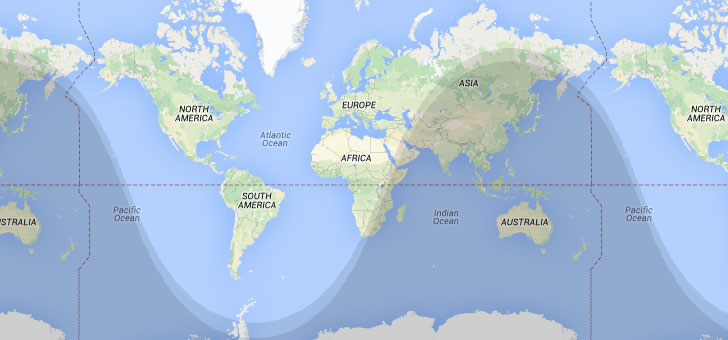
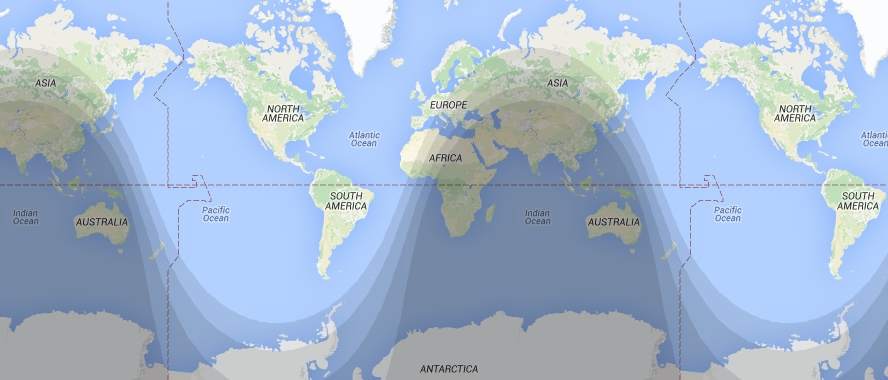
v1.5; now draws all twilight zones #4

diff --git a/nite-overlay.js b/nite-overlay.js
@@ -1,4 +1,4 @@
-/* Nite v1.4
+/* Nite v1.5
  * A tiny library to create a night overlay over the map
  * Author: Rossen Georgiev @ https://github.com/rossengeorgiev
  * Requires: GMaps API 3
@@ -8,11 +8,12 @@
 var nite = {
     map: null,
     date: null,
-    marker_sun: null,
-    marker_shadow: null,
-    marker_shadow_lite: null,
-    shadow_radius: parseInt(6371 * Math.PI * 500),
     sun_position: null,
+    earth_radius_meters: 6371008,
+    marker_twilight_civil: null,
+    marker_twilight_nautical: null,
+    marker_twilight_astronomical: null,
+    marker_night: null,
 
     init: function(map) {
         if(typeof google === 'undefined'
@@ -21,27 +22,51 @@ var nite = {
         this.map = map;
         this.sun_position = this.calculatePositionOfSun();
 
-        this.marker_shadow = new google.maps.Circle({
+        this.marker_twilight_civil = new google.maps.Circle({
             map: this.map,
             center: this.getShadowPosition(),
-            radius: this.shadow_radius,
+            radius: this.getShadowRadiusFromAngle(0),
             fillColor: "#000",
             fillOpacity: 0.1,
             strokeOpacity: 0,
             clickable: false,
             editable: false
         });
-
-        this.marker_shadow_lite = new google.maps.Circle({
+        this.marker_twilight_nautical = new google.maps.Circle({
             map: this.map,
             center: this.getShadowPosition(),
-            radius: this.shadow_radius * 0.96,
+            radius: this.getShadowRadiusFromAngle(6),
             fillColor: "#000",
             fillOpacity: 0.1,
             strokeOpacity: 0,
             clickable: false,
             editable: false
         });
+        this.marker_twilight_astronomical = new google.maps.Circle({
+            map: this.map,
+            center: this.getShadowPosition(),
+            radius: this.getShadowRadiusFromAngle(12),
+            fillColor: "#000",
+            fillOpacity: 0.1,
+            strokeOpacity: 0,
+            clickable: false,
+            editable: false
+        });
+        this.marker_night = new google.maps.Circle({
+            map: this.map,
+            center: this.getShadowPosition(),
+            radius: this.getShadowRadiusFromAngle(18),
+            fillColor: "#000",
+            fillOpacity: 0.1,
+            strokeOpacity: 0,
+            clickable: false,
+            editable: false
+        });
+    },
+    getShadowRadiusFromAngle: function(angle) {
+        var shadow_radius =  this.earth_radius_meters * Math.PI * 0.5;
+        var twilight_dist = ((this.earth_radius_meters * 2 * Math.PI) / 360) * angle;
+        return shadow_radius - twilight_dist;
     },
     getSunPosition: function() {
         return this.sun_position;
@@ -52,8 +77,11 @@ var nite = {
     refresh: function() {
         if(!this.isVisible()) return;
         this.sun_position = this.calculatePositionOfSun(this.date);
-        this.marker_shadow.setCenter(this.getShadowPosition());
-        this.marker_shadow_lite.setCenter(this.getShadowPosition());
+        var shadow_position = this.getShadowPosition();
+        this.marker_twilight_civil.setCenter(shadow_position);
+        this.marker_twilight_nautical.setCenter(shadow_position);
+        this.marker_twilight_astronomical.setCenter(shadow_position);
+        this.marker_night.setCenter(shadow_position);
     },
     jday: function(date) {
         return (date.getTime() / 86400000.0) + 2440587.5;
@@ -90,19 +118,25 @@ var nite = {
     },
     setMap: function(map) {
         this.map = map;
-        this.marker_shadow.setMap(this.map);
-        this.marker_shadow_lite.setMap(this.map);
+        this.marker_twilight_civil.setMap(this.map);
+        this.marker_twilight_nautical.setMap(this.map);
+        this.marker_twilight_astronomical.setMap(this.map);
+        this.marker_night.setMap(this.map);
     },
     show: function() {
-        this.marker_shadow.setVisible(true);
-        this.marker_shadow_lite.setVisible(true);
+        this.marker_twilight_civil.setVisible(true);
+        this.marker_twilight_nautical.setVisible(true);
+        this.marker_twilight_astronomical.setVisible(true);
+        this.marker_night.setVisible(true);
         this.refresh();
     },
     hide: function() {
-        this.marker_shadow.setVisible(false);
-        this.marker_shadow_lite.setVisible(false);
+        this.marker_twilight_civil.setVisible(false);
+        this.marker_twilight_nautical.setVisible(false);
+        this.marker_twilight_astronomical.setVisible(false);
+        this.marker_night.setVisible(false);
     },
     isVisible: function() {
-        return this.marker_shadow.getVisible();
+        return this.marker_night.getVisible();
     }
 }

diff --git a/README.md b/README.md
@@ -2,7 +2,9 @@
 
 # Nite Overlay - Overview
 
-Generates an overlay to illustrate the day/night cycle. The night side is shaded slightly darker.
+Generates an overlay to illustrate the day/night cycle.
+There are 4 shade levels going from light to dark.
+They are civil twilight, nautical twilight, astronomical twilight and night.
 
 Works with Google Maps API v3
 
